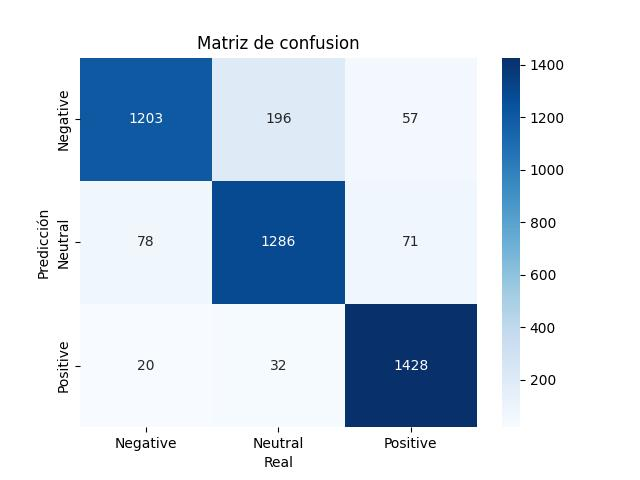
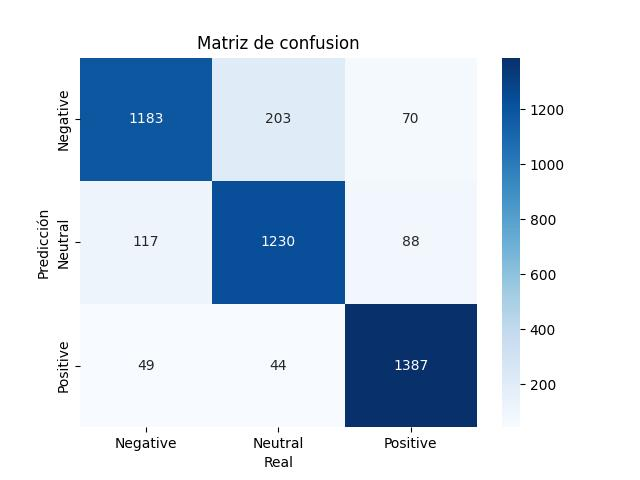
puestos los mejores modelos

diff --git a/logisticRegression.py b/logisticRegression.py
@@ -48,7 +48,7 @@ X_train, X_test, y_train, y_test = train_test_split(X, y, test_size= 0.2, random
 
 # Ejecutamos Logistic Regression
 # Utilizando el parametro C=10.0 se consigue una mayor regulación y es mejor para datasets pequeños porque evita el overfitting en ellos
-logistic_regression = LogisticRegression(C=10.0, random_state=42)
+logistic_regression = LogisticRegression(C=32.5, random_state=42)
 logistic_regression.fit(X_train, y_train)
 
 # Conseguimos las predicciones

diff --git a/naiveBayes.py b/naiveBayes.py
@@ -39,7 +39,7 @@ X_train, X_test, y_train, y_test = train_test_split(X, y, test_size= 0.2, random
 
 
 # Ejecutamos naive bayes
-naive_bayes = MultinomialNB(alpha=0, fit_prior=False)
+naive_bayes = MultinomialNB(alpha=0, fit_prior=True)
 
 naive_bayes.fit(X_train, y_train)
 
